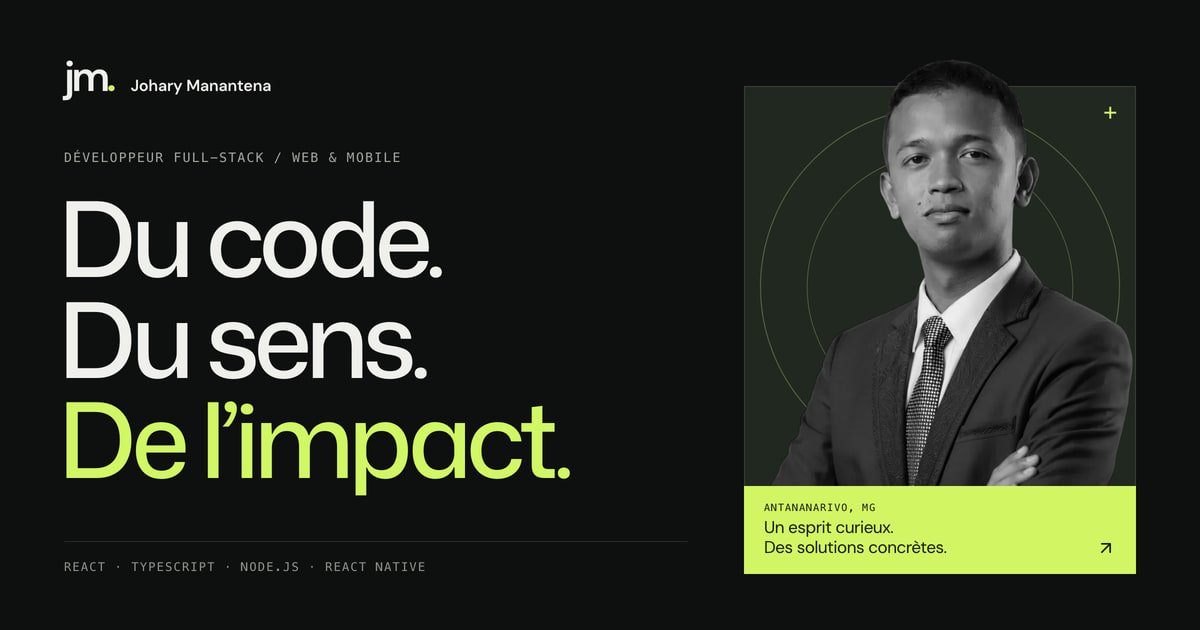
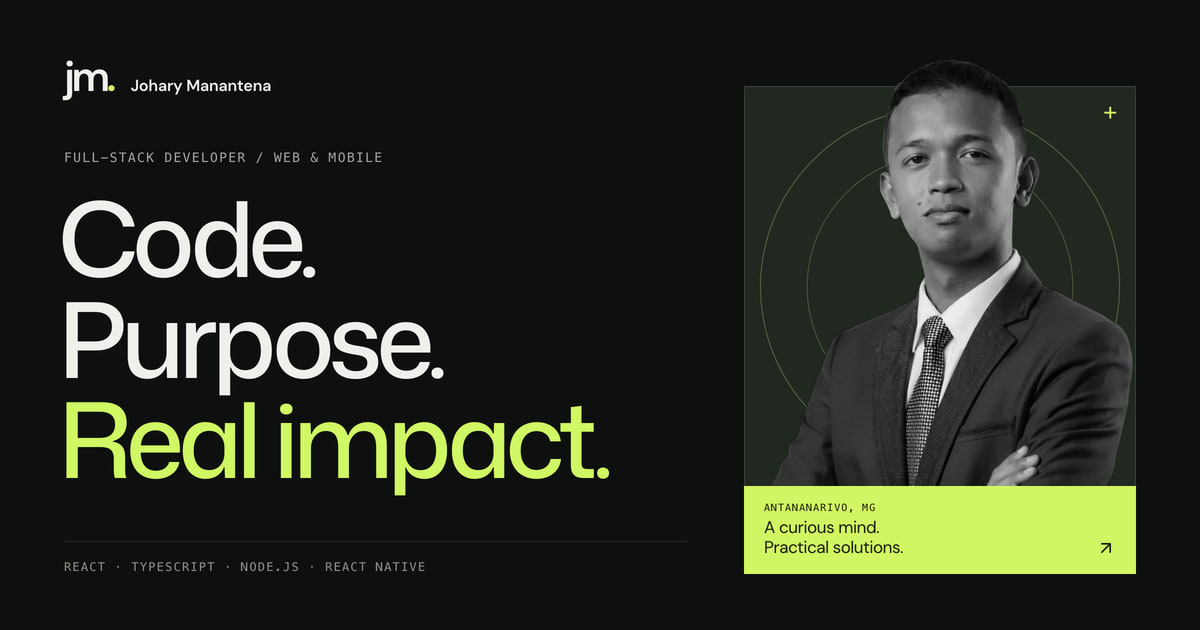
Open the site in English by default
The language provider now reads the saved choice before the first render
and falls back to English (only a saved "fr" switches to French). The
welcome screen, the static head (title, description, Open Graph, Twitter,
JSON-LD, og:locale) and the share image are in English too. Tests pin
French, which their assertions use.

diff --git a/index.html b/index.html
@@ -1,5 +1,5 @@
 <!doctype html>
-<html lang="fr">
+<html lang="en">
   <head>
     <meta charset="UTF-8" />
     <meta name="viewport" content="width=device-width, initial-scale=1.0" />
@@ -66,29 +66,29 @@
       content="#0e100f"
     />
 
-    <title>Johary Manantena | Développeur Full-Stack</title>
+    <title>Johary Manantena | Full-Stack Developer</title>
     <meta
       name="description"
-      content="Portfolio de Johary Manantena, développeur web full-stack (React, Node.js, TypeScript, Laravel, Spring Boot). Disponible pour missions freelance."
+      content="Portfolio of Johary Manantena, full-stack web developer (React, Node.js, TypeScript, Laravel, Spring Boot). Available for freelance missions."
     />
     <meta name="author" content="Johary Manantena" />
     <meta
       name="keywords"
-      content="développeur full-stack, React, Node.js, TypeScript, Laravel, Spring Boot, portfolio, freelance"
+      content="full-stack developer, React, Node.js, TypeScript, Laravel, Spring Boot, portfolio, freelance"
     />
 
     <meta
       property="og:title"
-      content="Johary Manantena | Développeur Full-Stack"
+      content="Johary Manantena | Full-Stack Developer"
     />
     <meta
       property="og:description"
-      content="Applications web modernes et performantes — front, back et mobile."
+      content="Modern, fast web applications — front end, back end and mobile."
     />
     <meta property="og:type" content="website" />
     <meta property="og:site_name" content="Johary Manantena" />
-    <meta property="og:locale" content="fr_FR" />
-    <meta property="og:locale:alternate" content="en_US" />
+    <meta property="og:locale" content="en_US" />
+    <meta property="og:locale:alternate" content="fr_FR" />
     <!-- canonical + og:url + og:image (URLs absolues) sont injectés au build par
          le plugin inject-site-meta (vite.config.ts) à partir de VITE_SITE_URL,
          ou automatiquement de l’URL de production fournie par Vercel. -->
@@ -96,11 +96,11 @@
     <meta name="twitter:card" content="summary_large_image" />
     <meta
       name="twitter:title"
-      content="Johary Manantena | Développeur Full-Stack"
+      content="Johary Manantena | Full-Stack Developer"
     />
     <meta
       name="twitter:description"
-      content="Applications web modernes et performantes — front, back et mobile."
+      content="Modern, fast web applications — front end, back end and mobile."
     />
 
     <!-- Écran d'accueil : peint avant React (sinon le hero apparaîtrait d'abord
@@ -308,8 +308,8 @@
         "@context": "https://schema.org",
         "@type": "Person",
         "name": "Johary Manantena",
-        "jobTitle": "Développeur Full-Stack",
-        "description": "Développeur web full-stack freelance — React, Node.js, TypeScript, Laravel, Spring Boot.",
+        "jobTitle": "Full-Stack Developer",
+        "description": "Freelance full-stack web developer — React, Node.js, TypeScript, Laravel, Spring Boot.",
         "address": {
           "@type": "PostalAddress",
           "addressLocality": "Antananarivo",
@@ -365,9 +365,9 @@
           intro.remove();
           return;
         }
-        var en = false;
+        var en = true; // anglais par défaut, sauf choix « fr » enregistré
         try {
-          en = localStorage.getItem("portfolio-lang") === "en";
+          en = localStorage.getItem("portfolio-lang") !== "fr";
           if (localStorage.getItem("portfolio-theme") === "light")
             intro.classList.add("intro-light");
         } catch (e) {}

diff --git a/src/i18n/index.tsx b/src/i18n/index.tsx
@@ -33,13 +33,15 @@ interface Ctx {
 const LanguageContext = createContext<Ctx | null>(null);
 
 export const LanguageProvider = ({ children }: { children: ReactNode }) => {
-  const [lang, setLangState] = useState<Lang>("fr");
-
-  // Hydrate from storage (default FR for the primary francophone audience).
-  useEffect(() => {
-    const saved = localStorage.getItem(STORAGE_KEY);
-    if (saved === "fr" || saved === "en") setLangState(saved);
-  }, []);
+  // English by default; a saved choice wins. Read before the first render so
+  // a returning French visitor never sees the English text flash first.
+  const [lang, setLangState] = useState<Lang>(() => {
+    try {
+      return localStorage.getItem(STORAGE_KEY) === "fr" ? "fr" : "en";
+    } catch {
+      return "en";
+    }
+  });
 
   // Keep <html lang> in sync for a11y / SEO.
   useEffect(() => {

diff --git a/tests/portfolio.spec.ts b/tests/portfolio.spec.ts
@@ -7,9 +7,11 @@ const sizes = [320, 375, 390, 430, 768, 1024, 1280, 1440, 1920];
    pour tous les tests, sauf ceux qui l'étudient (ils lèvent le drapeau eux-mêmes,
    les scripts d'init s'exécutant dans l'ordre d'ajout). */
 test.beforeEach(async ({ page }) => {
-  await page.addInitScript(() =>
-    localStorage.setItem("portfolio-intro-seen", "1"),
-  );
+  await page.addInitScript(() => {
+    localStorage.setItem("portfolio-intro-seen", "1");
+    // Le site s'ouvre en anglais par défaut ; les assertions sont en français.
+    localStorage.setItem("portfolio-lang", "fr");
+  });
 });
 
 for (const width of sizes) {

diff --git a/vite.config.ts b/vite.config.ts
@@ -20,7 +20,7 @@ const injectSiteMeta = (): Plugin => {
     .slice(0, 8);
   const ogImage = `${siteUrl}/og-image.jpg?v=${ogVersion}`;
   const ogAlt =
-    "Johary Manantena — Développeur Full-Stack. Du code. Du sens. De l’impact.";
+    "Johary Manantena — Full-Stack Developer. Code. Purpose. Real impact.";
   return {
     name: "inject-site-meta",
     transformIndexHtml(html) {

diff --git a/CLAUDE.md b/CLAUDE.md
@@ -19,7 +19,7 @@ Node version: 18.18.0 (`.nvmrc`). Deployment target: Vercel (`vercel.json`: head
 
 ## Architecture
 
-Single-page portfolio (bilingual FR/EN, French first) for a full-stack developer.
+Single-page portfolio (bilingual EN/FR, **English by default**) for a full-stack developer.
 Stack: React 18 + TypeScript + Vite. **No UI framework and no animation library** —
 the interface is hand-written CSS in [src/index.css](src/index.css) plus `lucide-react` icons.
 
@@ -291,8 +291,13 @@ audit of the open modal in the test suite.
 
 [src/i18n/](src/i18n/) — `LanguageProvider` + `useT()`. `t("nav.menu")` for chrome
 strings (`fr.ts` / `en.ts`, kept trimmed to what is actually used), and
-`tx({fr, en}, lang)` for bilingual data fields. The choice persists in
-`localStorage["portfolio-lang"]` and syncs `<html lang>`.
+`tx({fr, en}, lang)` for bilingual data fields. **English is the default**: the
+provider reads `localStorage["portfolio-lang"]` before the first render (no
+flash) and only a saved `"fr"` switches to French; the welcome screen, the
+static `<head>` (title, description, OG/Twitter, JSON-LD, `og:locale en_US`)
+and the share image follow English too. The choice persists and syncs
+`<html lang>`. Tests pin `portfolio-lang = "fr"` in their `beforeEach` — their
+assertions are in French.
 
 ### Design tokens & theming
 
